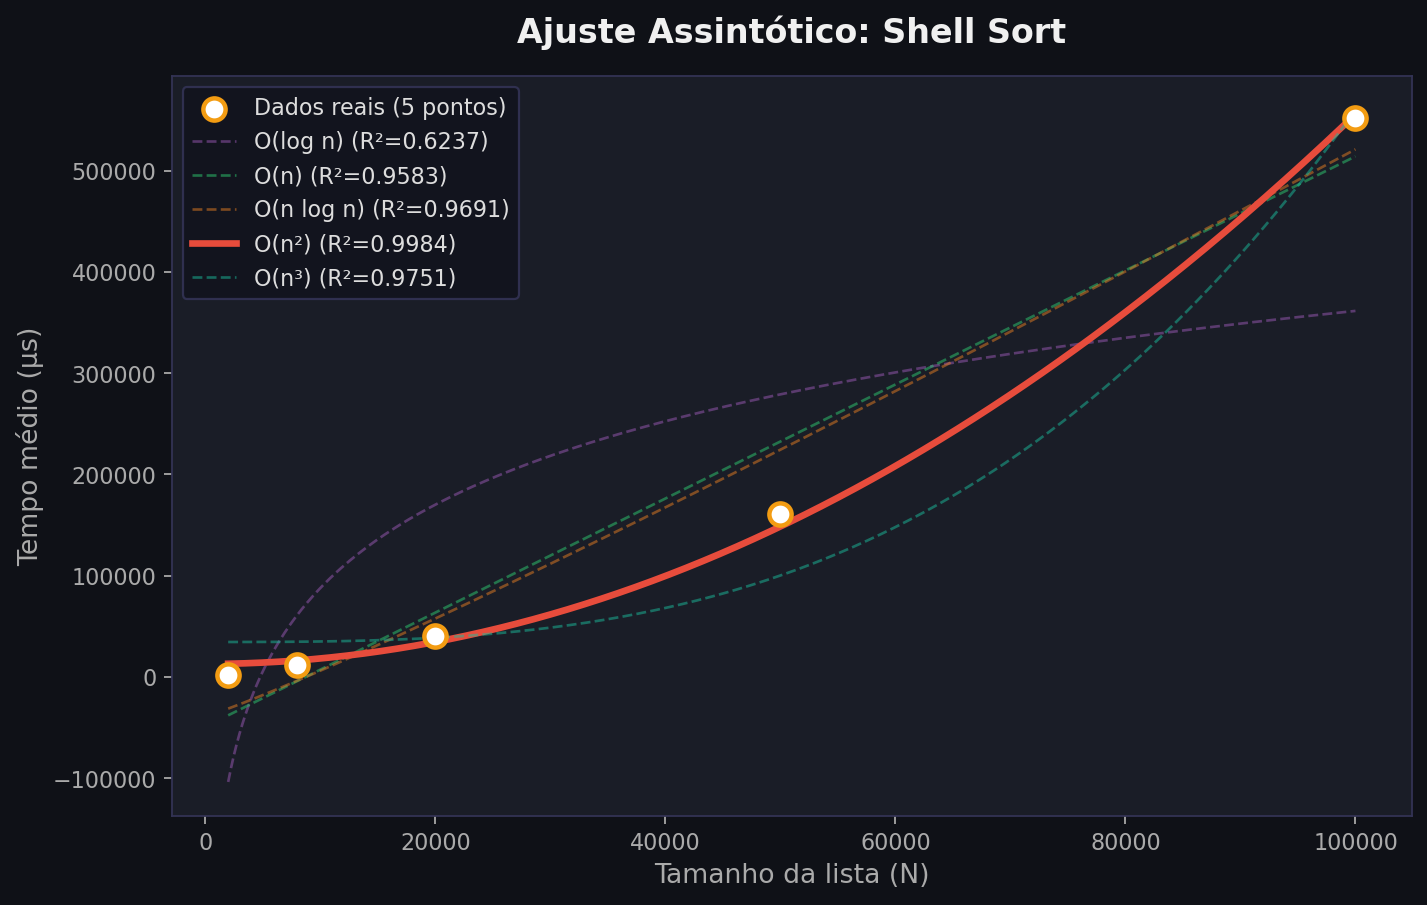
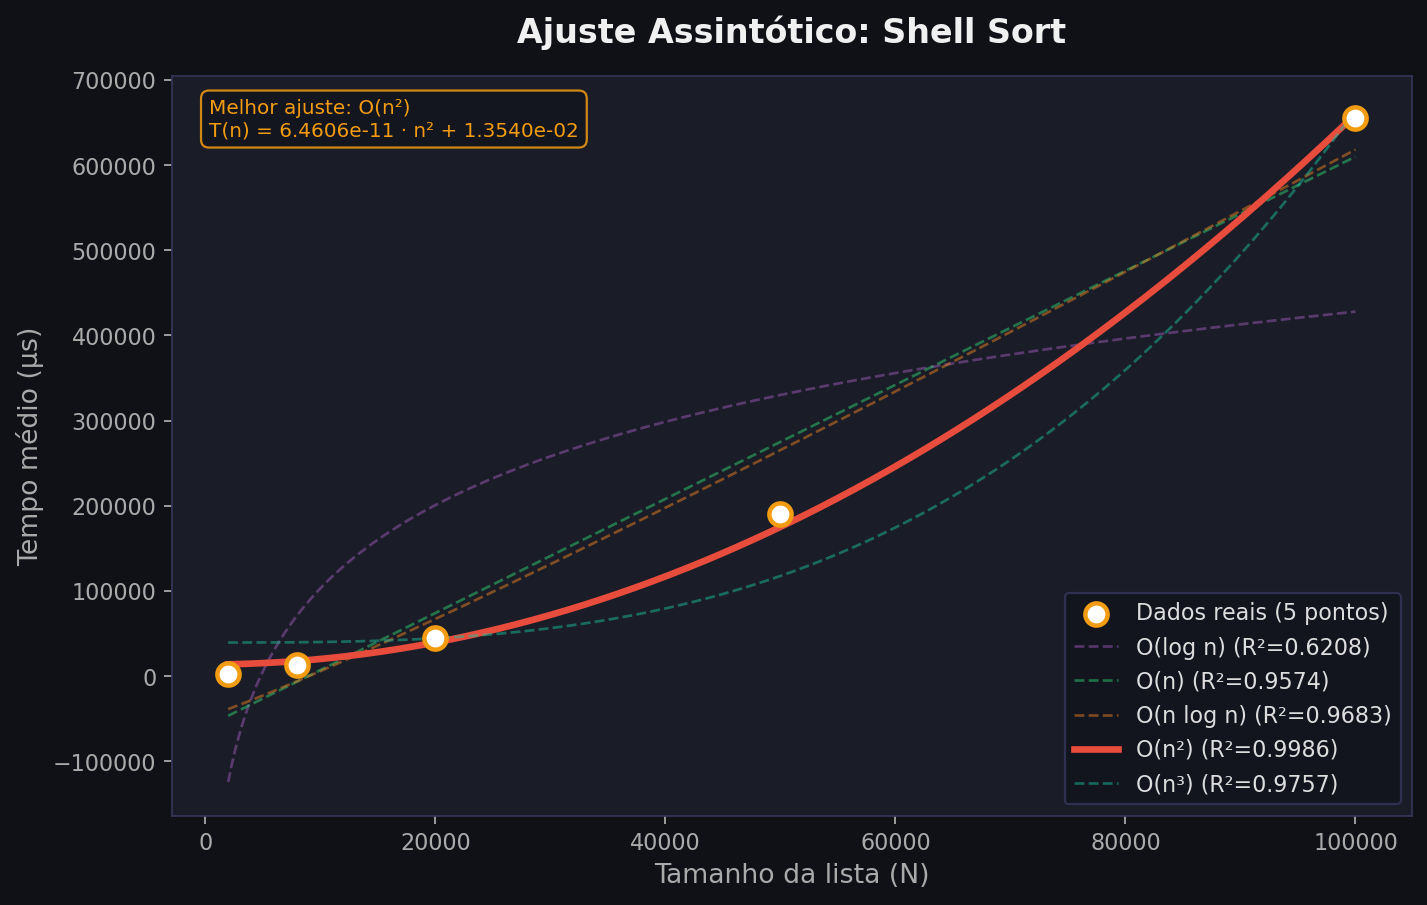
mostrar os coeficientes (constantes) numericas do melhor ajuste. plot dos tempos médios de cada método no mesmo gráfico sem a função de ajuste, apenas os pontos unidos por retas ou splines.

diff --git a/av2/visualization.py b/av2/visualization.py
@@ -1,13 +1,33 @@
 # -*- coding: utf-8 -*-
 import numpy as np
 import matplotlib.pyplot as plt
-import matplotlib.gridspec as gridspec
 import os
+from scipy.interpolate import make_interp_spline
 from models import MODELS, COLORS
+
+# Equações formatadas com os coeficientes numéricos
+EQUACOES = {
+    "O(log n)":   lambda a, b: f"T(n) = {a:.4e} · log₂(n) + {b:.4e}",
+    "O(n)":       lambda a, b: f"T(n) = {a:.4e} · n + {b:.4e}",
+    "O(n log n)": lambda a, b: f"T(n) = {a:.4e} · n·log₂(n) + {b:.4e}",
+    "O(n²)":      lambda a, b: f"T(n) = {a:.4e} · n² + {b:.4e}",
+    "O(n³)":      lambda a, b: f"T(n) = {a:.4e} · n³ + {b:.4e}",
+}
+
+# Cores fixas por algoritmo para o gráfico comparativo
+CORES_ALG = {
+    "Quicksort":  "#2ECC71",
+    "Shell Sort": "#E74C3C",
+}
+MARCADORES_ALG = {
+    "Quicksort":  "o",
+    "Shell Sort": "s",
+}
+
 
 def gerar_graficos_separados(resultados_algoritmos, Ns_todos, output_dir="resultados/imagens"):
     """
-    Gera um gráfico de dispersão com os 5 pontos reais e sobrepõe 
+    Gera um gráfico de dispersão com os 5 pontos reais e sobrepõe
     as 5 curvas matemáticas separadamente para cada algoritmo.
     """
     os.makedirs(output_dir, exist_ok=True)
@@ -31,14 +51,27 @@ def gerar_graficos_separados(resultados_algoritmos, Ns_todos, output_dir="result
         for modelo, info in regs.items():
             if info["params"] is None:
                 continue
-            cor = COLORS[modelo]
-            lw  = 3.0 if modelo == melhor_modelo else 1.2
-            ls  = "-" if modelo == melhor_modelo else "--"
-            alpha = 1.0 if modelo == melhor_modelo else 0.5
+            cor   = COLORS[modelo]
+            lw    = 3.0 if modelo == melhor_modelo else 1.2
+            ls    = "-"  if modelo == melhor_modelo else "--"
+            alpha = 1.0  if modelo == melhor_modelo else 0.5
             T_smooth = MODELS[modelo](N_smooth, *info["params"])
             ax.plot(N_smooth, T_smooth * 1e6, color=cor, lw=lw,
                     linestyle=ls, alpha=alpha,
                     label=f"{modelo} (R²={info['r2']:.4f})")
+
+        # Equação do melhor ajuste como anotação no gráfico
+        best_info = regs[melhor_modelo]
+        if best_info["params"] is not None:
+            a, b = best_info["params"]
+            eq_str = EQUACOES[melhor_modelo](a, b)
+            ax.annotate(
+                f"Melhor ajuste: {melhor_modelo}\n{eq_str}",
+                xy=(0.03, 0.97), xycoords="axes fraction",
+                fontsize=9, color="#F39C12",
+                va="top", ha="left",
+                bbox=dict(boxstyle="round,pad=0.4", fc="#12141E", ec="#F39C12", alpha=0.85),
+            )
 
         ax.set_title(f"Ajuste Assintótico: {nome_alg}",
                      color="#F0F0F0", fontsize=15, fontweight="bold", pad=15)
@@ -48,7 +81,7 @@ def gerar_graficos_separados(resultados_algoritmos, Ns_todos, output_dir="result
         for spine in ax.spines.values():
             spine.set_edgecolor("#333355")
 
-        ax.legend(fontsize=10, loc="upper left",
+        ax.legend(fontsize=10, loc="lower right",
                   facecolor="#12141E", edgecolor="#333355",
                   labelcolor="#DDDDDD", framealpha=0.9)
 
@@ -57,6 +90,66 @@ def gerar_graficos_separados(resultados_algoritmos, Ns_todos, output_dir="result
         plt.savefig(output_path, dpi=160, bbox_inches="tight", facecolor=fig.get_facecolor())
         plt.close()
         print(f"✅ Gráfico salvo em {output_path}")
+
+
+def gerar_grafico_comparativo(resultados_algoritmos, output_dir="resultados/imagens"):
+    """
+    Plota os tempos médios de ambos os algoritmos no mesmo eixo,
+    sem curvas de regressão — apenas os pontos reais unidos por splines cúbicas.
+    """
+    os.makedirs(output_dir, exist_ok=True)
+
+    fig, ax = plt.subplots(figsize=(10, 6))
+    fig.patch.set_facecolor("#0F1117")
+    ax.set_facecolor("#1A1D27")
+
+    for nome_alg, dados in resultados_algoritmos.items():
+        Ns_arr = np.array(dados["Ns"], dtype=float)
+        T_arr  = np.array(dados["tempos"], dtype=float) * 1e6   # → μs
+        cor     = CORES_ALG.get(nome_alg, "#FFFFFF")
+        marcador = MARCADORES_ALG.get(nome_alg, "o")
+
+        # Spline cúbica suave entre os pontos medidos
+        if len(Ns_arr) >= 4:
+            N_smooth = np.linspace(Ns_arr.min(), Ns_arr.max(), 500)
+            spline   = make_interp_spline(Ns_arr, T_arr, k=3)
+            T_smooth = spline(N_smooth)
+            ax.plot(N_smooth, T_smooth, color=cor, lw=2.2, alpha=0.85)
+        else:
+            ax.plot(Ns_arr, T_arr, color=cor, lw=2.2, alpha=0.85)
+
+        ax.scatter(Ns_arr, T_arr, color=cor, s=110, zorder=10,
+                   edgecolors="#FFFFFF", linewidths=1.5,
+                   marker=marcador, label=nome_alg)
+
+        # Anotação com o tempo no último ponto
+        ax.annotate(
+            f"{T_arr[-1]:,.0f} μs",
+            xy=(Ns_arr[-1], T_arr[-1]),
+            xytext=(8, 0), textcoords="offset points",
+            fontsize=9, color=cor, va="center",
+        )
+
+    ax.set_title("Comparação de Tempo Médio: Quicksort vs Shell Sort",
+                 color="#F0F0F0", fontsize=15, fontweight="bold", pad=15)
+    ax.set_xlabel("Tamanho da lista (N)", color="#AAAAAA", fontsize=12)
+    ax.set_ylabel("Tempo médio (μs)", color="#AAAAAA", fontsize=12)
+    ax.tick_params(colors="#AAAAAA")
+    for spine in ax.spines.values():
+        spine.set_edgecolor("#333355")
+
+    ax.legend(fontsize=11, loc="upper left",
+              facecolor="#12141E", edgecolor="#333355",
+              labelcolor="#DDDDDD", framealpha=0.9)
+
+    ax.yaxis.set_major_formatter(plt.FuncFormatter(lambda x, _: f"{x:,.0f}"))
+    ax.xaxis.set_major_formatter(plt.FuncFormatter(lambda x, _: f"{int(x):,}"))
+
+    output_path = os.path.join(output_dir, "comparativo_tempos.png")
+    plt.savefig(output_path, dpi=160, bbox_inches="tight", facecolor=fig.get_facecolor())
+    plt.close()
+    print(f"✅ Gráfico comparativo salvo em {output_path}")
+
 
 def imprimir_relatorio(nome_alg, Ns, tempos, cvs, regressoes):
     print(f"\n{'═'*60}")
@@ -73,3 +166,13 @@ def imprimir_relatorio(nome_alg, Ns, tempos, cvs, regressoes):
     for modelo, info in regressoes.items():
         flag = "◀ MELHOR AJUSTE" if modelo == melhor else ""
         print(f"  {modelo:<14}  {info['r2']:>8.4f}  {flag}")
+
+    # Coeficientes numéricos do melhor ajuste
+    best_info = regressoes[melhor]
+    if best_info["params"] is not None:
+        a, b = best_info["params"]
+        eq_str = EQUACOES[melhor](a, b)
+        print(f"\n  Equação do melhor ajuste ({melhor}):")
+        print(f"    {eq_str}  [T em segundos]")
+        print(f"    a = {a:.6e}  (coeficiente principal)")
+        print(f"    b = {b:.6e}  (constante aditiva)")

diff --git a/av2/main.py b/av2/main.py
@@ -5,7 +5,7 @@ warnings.filterwarnings("ignore")
 from sorting import quicksort, shell_sort
 from benchmarking import coletar_tempos_para_n
 from models import ajustar_modelos
-from visualization import gerar_graficos_separados, imprimir_relatorio
+from visualization import gerar_graficos_separados, gerar_grafico_comparativo, imprimir_relatorio
 
 def main():
     # ── Configurações ──
@@ -68,9 +68,10 @@ def main():
 
         imprimir_relatorio(nome_alg, Ns_validos, tempos_validos, cvs_validos, regressoes)
 
-    # Gráfico
+    # ── Gráficos ──
     todos_Ns = [n for alg in resultados_todos.values() for n in alg["Ns"]]
     gerar_graficos_separados(resultados_todos, todos_Ns, output_dir="resultados/imagens")
+    gerar_grafico_comparativo(resultados_todos, output_dir="resultados/imagens")
 
     print("\n" + "="*60)
     print("  CONCLUSÃO FINAL")
@@ -78,7 +79,9 @@ def main():
     for nome_alg, dados in resultados_todos.items():
         melhor = max(dados["regressoes"], key=lambda k: dados["regressoes"][k]["r2"])
         r2 = dados["regressoes"][melhor]["r2"]
+        a, b = dados["regressoes"][melhor]["params"]
         print(f"  {nome_alg:<14} → Melhor ajuste: {melhor}  (R²={r2:.4f})")
+        print(f"  {'':14}   a={a:.4e}  b={b:.4e}")
     print("="*60)
 
 